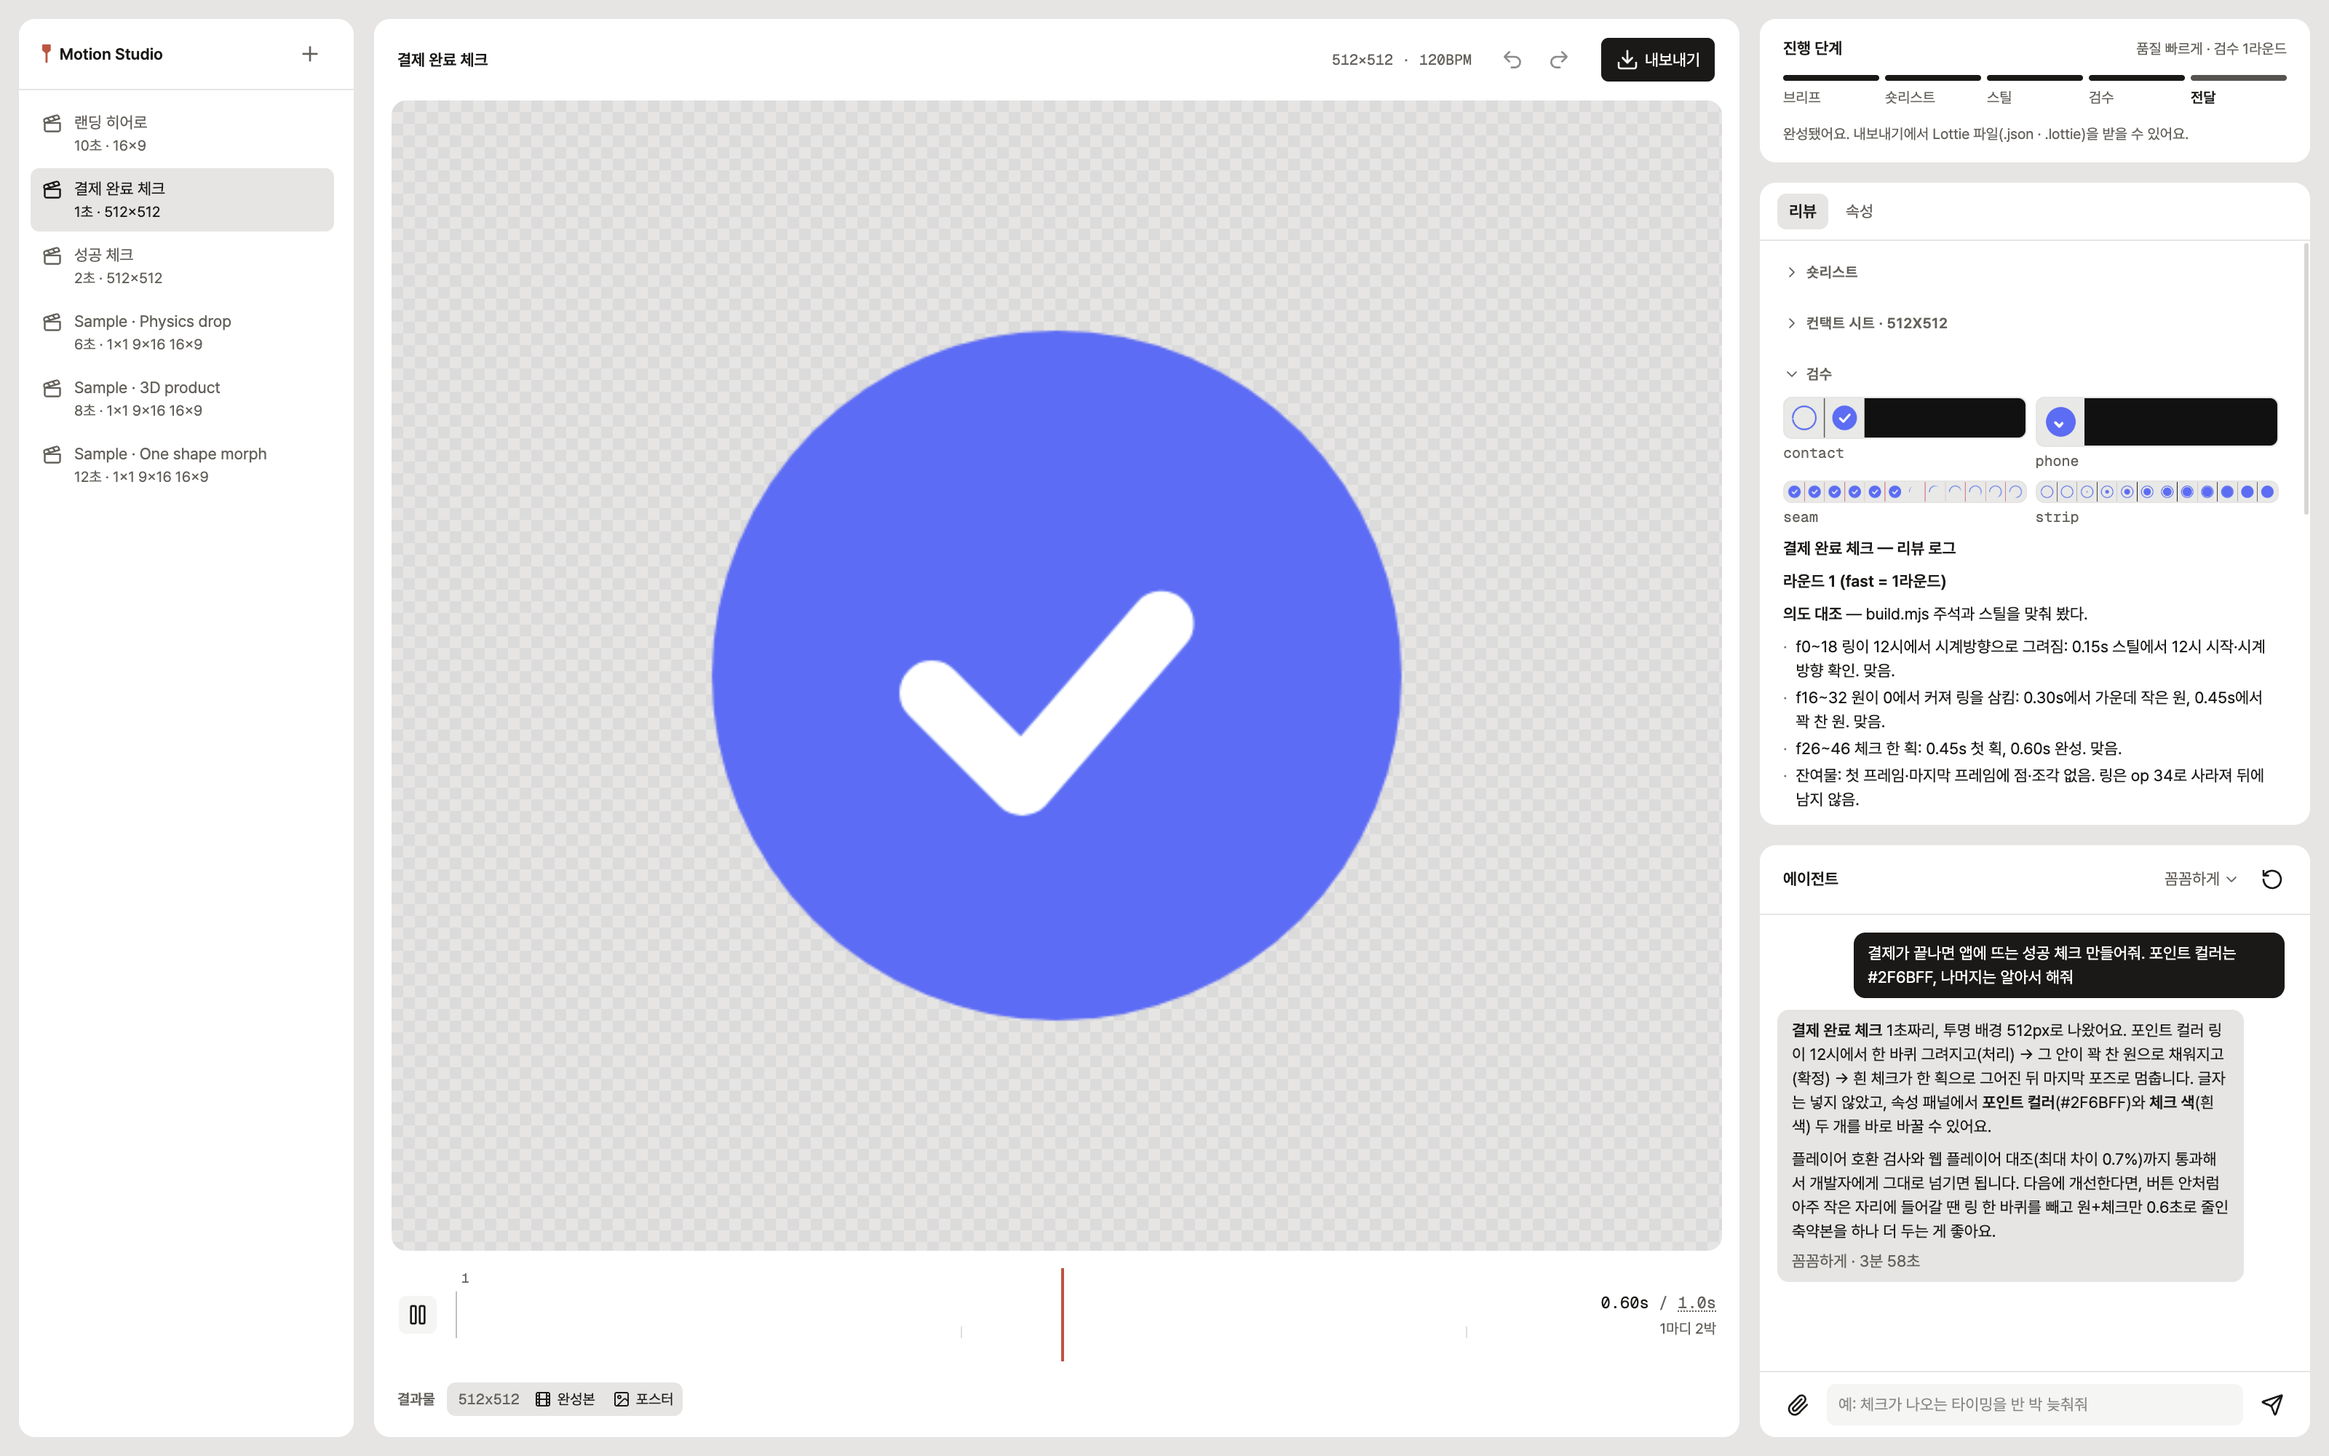
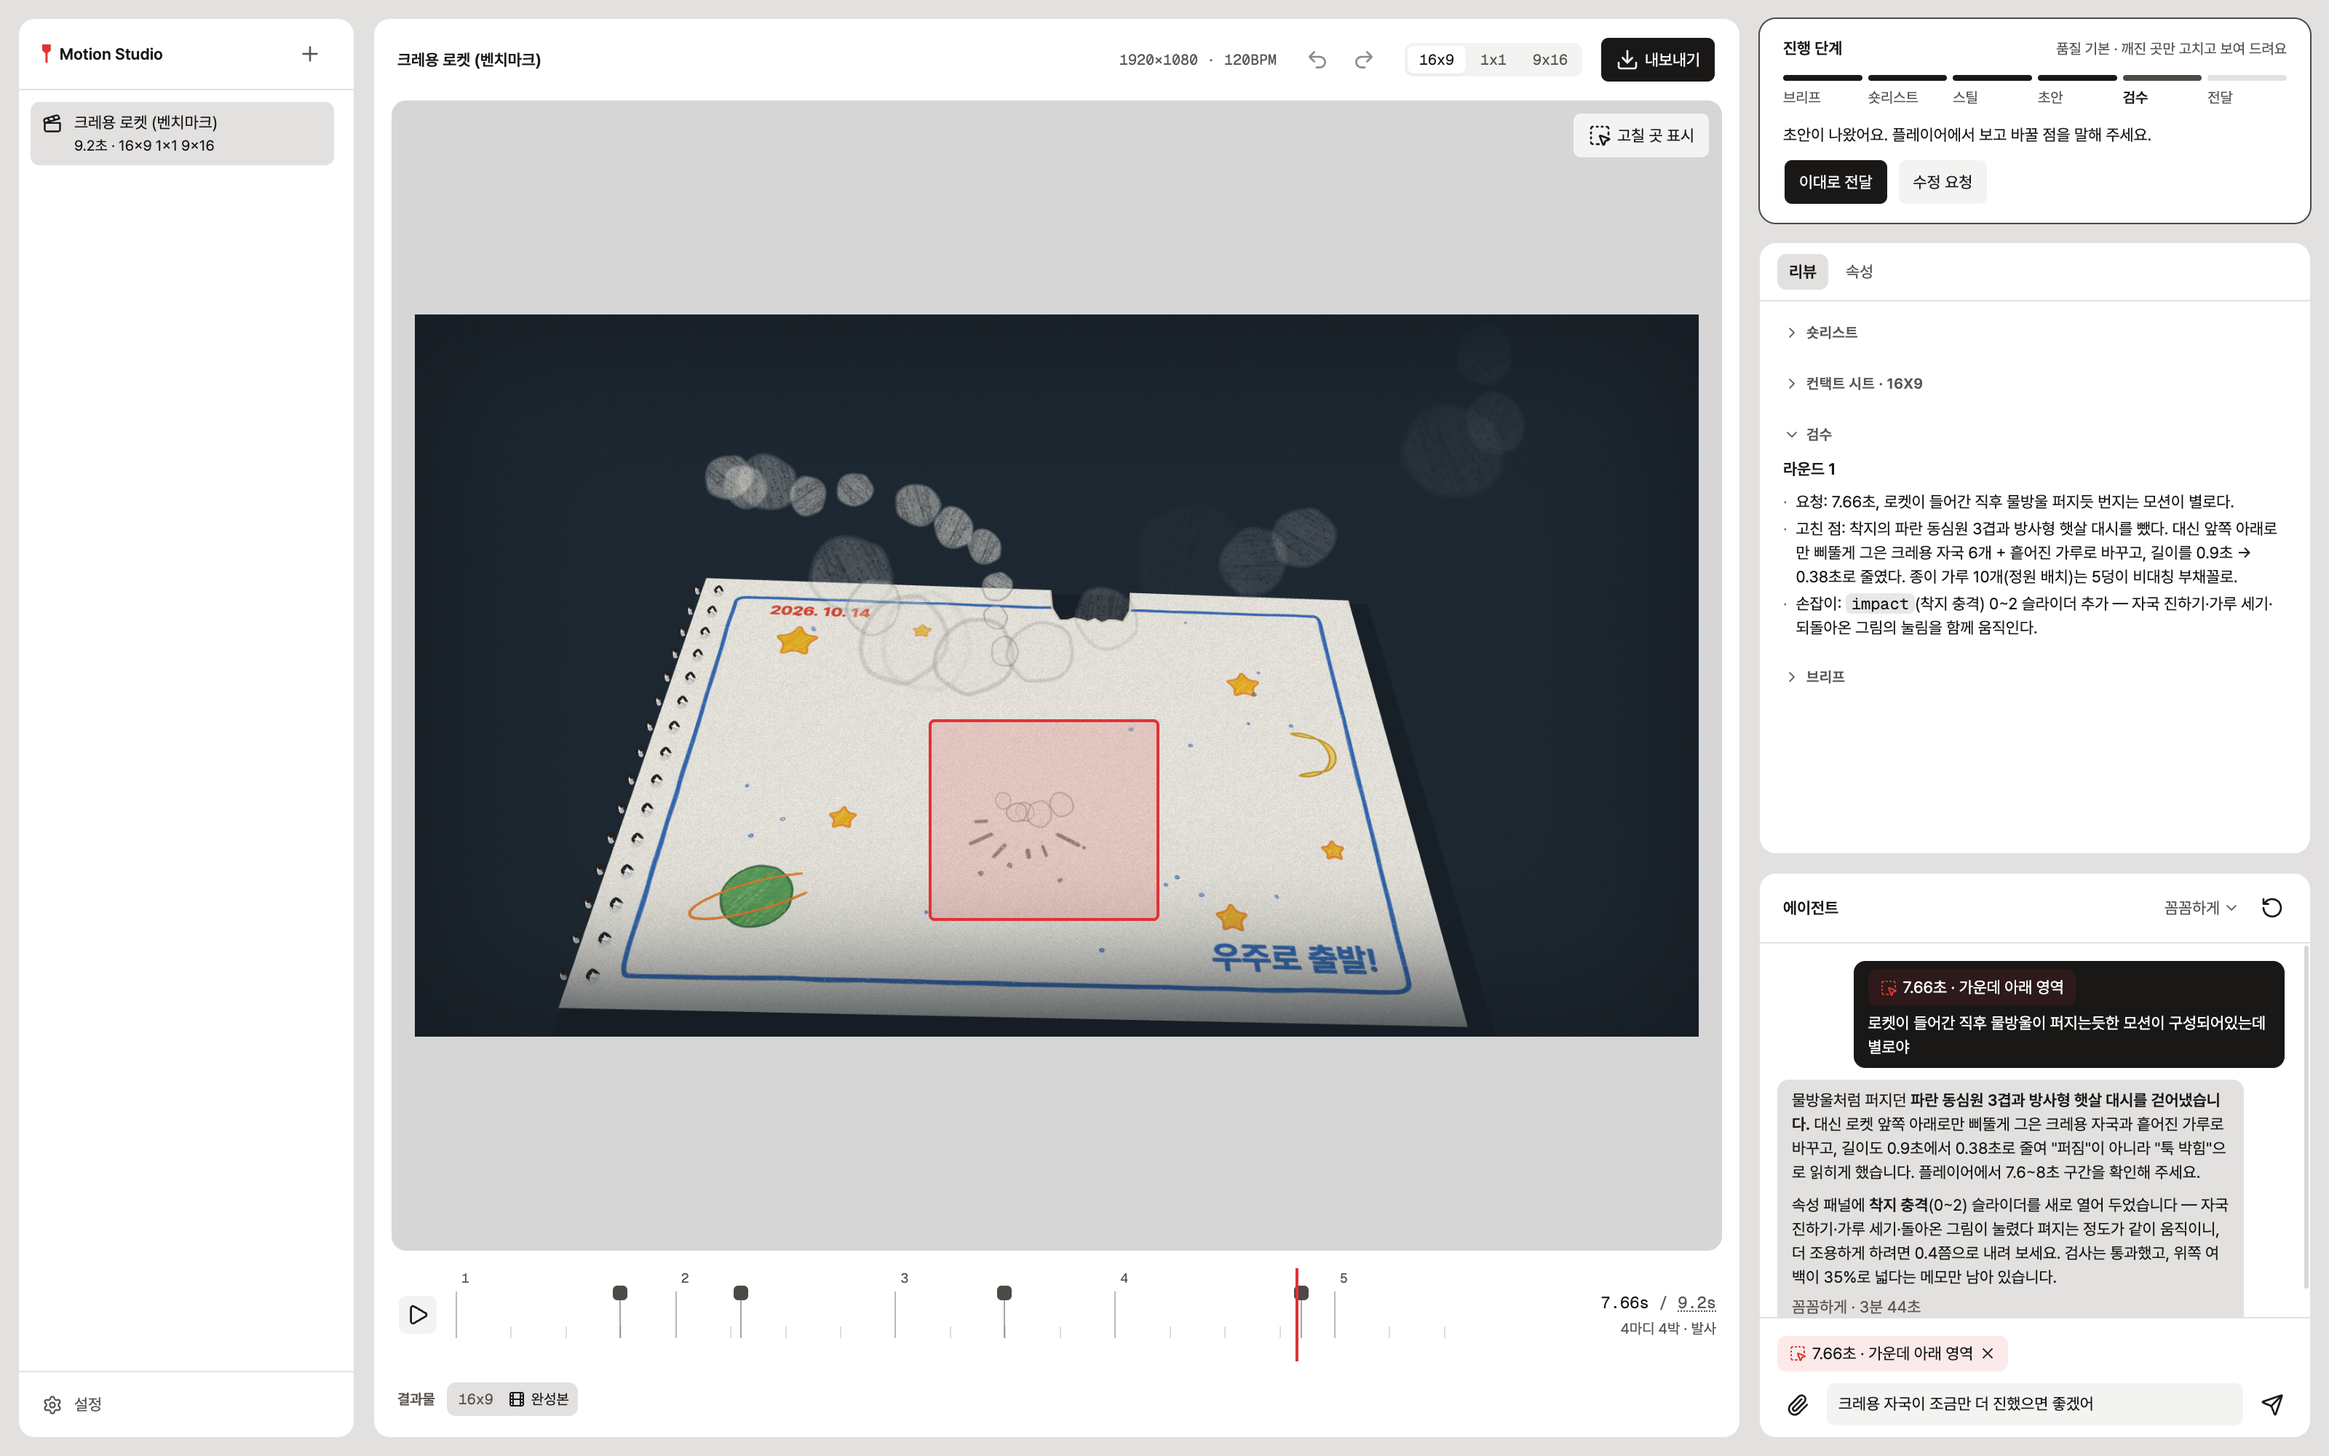
소개 페이지·사용 가이드: 0.7.0에 맞춰
- 작동 방식 "스스로 점검" → "초안 보고 다듬기": 초안을 바로 보여 주고, 이대로 전달하거나
  고칠 곳을 표시해 말하면 그 부분만 고쳐 다시 보여 준다.
- 직접 고치기에 "움직임의 느낌"(슬라이더)과 "고칠 곳 표시"를 더했다.
- 사용 가이드: 품질 단계 설명(혼자 다듬는 양과 점수 표시), 만들어지는 동안의 단계와
  내가 할 일 세 가지, "고칠 곳 표시하기" 순서, 느낌 슬라이더, 응답이 멈췄을 때 다시 보내기.
  0.6.1부터 없는 "예시 작업"은 "처음엔 목록이 비어 있다"로.
- 스크린샷 새로 찍음(1600×1000 @2x, 라이트): 크레용 로켓 하나만 있는 작업 폴더로 앱을 띄워
  초안 카드·고칠 곳 표시 박스·표시 칩·실제 수정 대화, 그리고 착지 충격 슬라이더가 보이게.
  앱 화면은 256색으로 줄였다(2.4MB → 1.1MB, 눈으로 차이 없음).

diff --git a/site/guide.html b/site/guide.html
@@ -143,7 +143,7 @@ p.small { font-size: 14.5px; color: var(--ink-3); }
           <li>처음 열 때 "확인되지 않은 개발자"라는 안내가 나올 수 있어요. <b>시스템 설정 → 개인정보 보호 및 보안</b>으로 가서 <b>그래도 열기</b>를 한 번만 눌러 주세요.</li>
           <li>처음 실행하면 앱이 필요한 준비를 알아서 하고, Claude 계정으로 로그인하도록 안내해요. 따로 설치하거나 설정할 건 없어요.</li>
         </ol>
-        <p>앱에는 예시 작업 몇 개가 들어 있어요. 하나 열어서 재생해 보고, 오른쪽에서 색을 바꿔 보면 어떻게 쓰는지 금방 감이 와요.</p>
+        <p>처음엔 필름 목록이 비어 있어요. 왼쪽 위 <b>+</b>로 첫 필름을 만들어 보세요.</p>
       </section>
 
       <section id="new">
@@ -161,11 +161,11 @@ p.small { font-size: 14.5px; color: var(--ink-3); }
           </div>
         </div>
         <h3>얼마나 공들일지</h3>
-        <p>영상은 AI가 완성본을 직접 보고 고치는 과정을 몇 번 거칠지 고를 수 있어요.</p>
+        <p>영상은 AI가 초안을 보여 드리기 전에 혼자 얼마나 다듬을지 고를 수 있어요. 몇 번 더 고칠지는 초안을 보고 직접 정하면 돼요.</p>
         <ul>
-          <li><b>빠르게</b>: 한 번만 보고 고쳐요. 방향부터 빨리 보고 싶을 때 좋아요.</li>
-          <li><b>기본</b>: 세 번 보고 고쳐요. 대부분은 이걸로 충분해요.</li>
-          <li><b>런칭용</b>: 모든 항목이 충분히 좋아질 때까지 계속 고쳐요. 시간이 가장 오래 걸려요.</li>
+          <li><b>빠르게</b>: 가장 빨리 초안을 보여 드려요. 방향부터 보고 싶을 때 좋아요.</li>
+          <li><b>기본</b>: 화면이 깨지는 곳만 고치고 보여 드려요. 대부분은 이걸로 충분해요.</li>
+          <li><b>런칭용</b>: 보여 드릴 때마다 항목별 점수를 함께 알려 드려요.</li>
         </ul>
         <p>여기서 고른 비율과 길이는 AI가 마음대로 바꾸지 않아요. 다르게 하는 게 낫겠다 싶으면 먼저 물어봐요.</p>
       </section>
@@ -219,13 +219,13 @@ p.small { font-size: 14.5px; color: var(--ink-3); }
       <section id="process">
         <div class="beat">00:12</div>
         <h2>만들어지는 동안</h2>
-        <p>AI가 지금 무엇을 하고 있는지 앱 오른쪽 위에 단계로 보여요. 내가 해야 할 건 <b>질문에 답하기</b>와 <b>장면 계획 승인하기</b>, 두 가지뿐이에요.</p>
+        <p>AI가 지금 무엇을 하고 있는지 앱 오른쪽 위에 단계로 보여요. 내가 해야 할 건 <b>질문에 답하기</b>, <b>장면 계획 승인하기</b>, <b>초안 보고 전달할지 고칠지 정하기</b>, 세 가지예요.</p>
         <ol class="flowlist">
           <li><span class="tag">브리프</span><b>무엇을 만들지 정리해요.</b> 빠진 내용이 있으면 질문이 와요. 답해 주세요.</li>
           <li><span class="tag">숏리스트</span><b>장면 계획을 보여 드려요.</b> 몇 초에 무엇이 나오고 어떻게 움직이는지 적은 표예요. 괜찮으면 <b>승인</b>을, 바꾸고 싶으면 채팅으로 말해 주세요. 승인하기 전에는 만들기 시작하지 않아요.</li>
-          <li><span class="tag">스틸 · 초안</span><b>장면마다 한 장씩 뽑아 보고, 빠르게 한 번 돌려 봐요.</b> 배치와 글자, 타이밍을 다듬는 단계예요.</li>
-          <li><span class="tag">검수</span><b>완성본을 직접 보며 고쳐요.</b> 글자가 잘 읽히는지, 멈춰 보이는 구간은 없는지 점수를 매기고 부족한 곳을 손봐요.</li>
-          <li><span class="tag">전달</span><b>완성이에요.</b> 재생해 보고, 더 고칠 게 있으면 말하거나 파일로 받으면 돼요.</li>
+          <li><span class="tag">초안</span><b>초안을 만들어 바로 보여 드려요.</b> 화면이 깨지는 곳만 고치고, "초안이 나왔어요" 카드를 띄워요. 마음에 들면 <b>이대로 전달</b>, 아니면 <b>수정 요청</b>을 눌러요.</li>
+          <li><span class="tag">검수</span><b>말씀하신 곳을 고쳐 다시 보여 드려요.</b> 의견을 한 번 주실 때마다 한 라운드예요. 마음에 들 때까지 주고받으면 돼요.</li>
+          <li><span class="tag">전달</span><b>완성이에요.</b> 모든 화면 비율로 완성본을 뽑아 드려요. 더 고칠 게 있으면 말하거나 파일로 받으면 돼요.</li>
         </ol>
         <p>영상을 뽑는 동안에는 플레이어 아래에 진행률이 보이고, 원하면 거기서 멈출 수 있어요.</p>
         <h3>앱·웹에 넣을 것은 더 빨라요</h3>
@@ -234,6 +234,14 @@ p.small { font-size: 14.5px; color: var(--ink-3); }
           <li>고칠 게 없으면 검수를 일찍 끝내요.</li>
           <li>개발자에게 넘기기 전에, 실제 웹과 앱에서도 똑같이 보이는지 비교해 보고 넘겨요.</li>
         </ul>
+        <h3>고칠 곳 표시하기</h3>
+        <p>말로 설명하기 어려운 건 화면에 직접 표시해 주세요.</p>
+        <ol>
+          <li>플레이어에서 고칠 장면에 멈춰요.</li>
+          <li>오른쪽 위 <b>고칠 곳 표시</b>를 누르고, 고칠 부분을 드래그로 감싸요. 그냥 누르면 점으로 표시돼요.</li>
+          <li>메시지 입력창 위에 표시가 붙어요. 무엇이 별로인지 한 줄만 적어 보내면, AI가 그 순간 그 자리를 보고 고쳐요.</li>
+        </ol>
+        <p>붙은 표시를 누르면 그 장면으로 돌아가고, X를 누르면 화면의 박스와 함께 지워져요. 여러 곳을 한 번에 표시해도 돼요.</p>
         <h3>다 만든 뒤에도 고칠 수 있어요</h3>
         <p>"로고가 조금 더 늦게 나오게", "마지막 문구를 더 크게"처럼 바꾸고 싶은 것만 말하면 그 부분을 고치고 다시 확인해요.</p>
       </section>
@@ -241,9 +249,10 @@ p.small { font-size: 14.5px; color: var(--ink-3); }
       <section id="edit">
         <div class="beat">00:16</div>
         <h2>직접 손보기</h2>
-        <p>문구 하나, 색 하나 바꾸는 건 AI를 기다릴 필요 없어요.</p>
+        <p>문구 하나, 색 하나, 움직임의 느낌까지 AI를 기다릴 필요 없어요.</p>
         <ul>
           <li><b>속성</b>: 문구, 색, 크기 같은 값을 바로 바꿔요. 전체 길이를 바꾸면 장면들이 같은 비율로 늘어나거나 줄어들어요.</li>
+          <li><b>움직임의 느낌</b>: 튀는 정도, 흔들림, 속도처럼 말로 하기 어려운 느낌은 AI가 속성에 슬라이더로 열어 둬요. 끄는 대로 미리보기가 바로 바뀌어요.</li>
           <li><b>타임라인</b>: 장면 표시를 끌어서 옮기면 움직임이 함께 따라와요. 박자에 딱 붙고, <kbd>⌥</kbd>를 누른 채 끌면 더 세밀하게 옮길 수 있어요.</li>
           <li>내가 직접 바꾼 값은 AI가 몰래 되돌리지 않아요. 꼭 바꿔야 할 땐 먼저 이유를 말해요.</li>
         </ul>
@@ -285,6 +294,8 @@ p.small { font-size: 14.5px; color: var(--ink-3); }
           <dd>채팅에 "필름이 안 열려"라고 보내면 AI가 고쳐요.</dd>
           <dt>"로그인이 풀렸어요"라고 나와요</dt>
           <dd><b>다시 로그인</b>을 누르고, 로그인이 끝나면 <b>다시 보내기</b>를 눌러요. 보냈던 메시지가 그대로 다시 가요.</dd>
+          <dt>"Claude 서버가 응답하지 않아 이번 요청이 멈췄어요"라고 나와요</dt>
+          <dd>서버가 응답하지 않으면 AI가 잠시 뒤 스스로 다시 시도해요. 그래도 안 되면 이 메시지가 나와요. <b>다시 보내기</b>를 누르면 이어서 해요. 그때까지 한 작업은 그대로 남아 있어요.</dd>
           <dt>영상 뽑는 데 오래 걸려요</dt>
           <dd>12초짜리 정사각 영상이 30초 안팎 걸려요. 맥 사양에 따라 더 걸릴 수 있고, 플레이어 아래 진행률 옆에서 멈출 수 있어요.</dd>
           <dt>Figma 링크를 못 읽어요</dt>

diff --git a/site/index.html b/site/index.html
@@ -165,7 +165,7 @@ p.lead { font-size: clamp(18px, 1.6vw, 21px); color: var(--ink-2); max-width: 34
 <main>
   <section class="hero" data-tc="0">
     <div class="wrap">
-      <div class="beat">00:00 · macOS 앱 · <span id="ver">v0.6.0</span></div>
+      <div class="beat">00:00 · macOS 앱 · <span id="ver">v0.7.0</span></div>
       <div class="hero-grid">
         <div>
           <h1><span class="reveal">말하면,</span><span class="reveal">움직입니다.</span></h1>
@@ -196,10 +196,10 @@ p.lead { font-size: clamp(18px, 1.6vw, 21px); color: var(--ink-2); max-width: 34
       <div class="steps">
         <div class="step in"><span class="tc">00:04</span><h3>말하기</h3><p>"버튼이 로더를 거쳐 체크로 바뀌는 4초 루프"처럼 적으면 돼요. 로고, 스크린샷, Figma 링크도 함께 넣을 수 있어요.</p></div>
         <div class="step in"><span class="tc">00:05</span><h3>장면 확인</h3><p>언제 무엇이 움직일지 장면 표로 먼저 보여 드려요. 확인하고 승인하면 그때 만들기 시작해요.</p></div>
-        <div class="step in"><span class="tc">00:06</span><h3>스스로 점검</h3><p>AI가 만든 영상을 직접 돌려 보고, 글자가 잘 읽히는지, 비어 보이는 구간은 없는지 점검하며 고쳐요.</p></div>
+        <div class="step in"><span class="tc">00:06</span><h3>초안 보고 다듬기</h3><p>초안이 나오면 바로 보여 드려요. 마음에 들면 이대로 전달, 아니면 고칠 곳을 표시해서 말해 주세요. 그 부분만 고쳐 다시 보여 드려요.</p></div>
         <div class="step in"><span class="tc">00:07</span><h3>받기</h3><p>MP4·ProRes·GIF 영상이나 개발자에게 넘길 Lottie 파일로 받아요. 다운로드 폴더에 모아 드려요.</p></div>
       </div>
-      <figure class="shot in" style="margin-left:0;margin-right:0"><img src="assets/shot-app.png?v=3" alt="Motion Studio 앱 화면: 왼쪽 필름 목록, 가운데 플레이어, 오른쪽 진행 단계와 AI 채팅" loading="lazy" width="1600" height="1000"></figure>
+      <figure class="shot in" style="margin-left:0;margin-right:0"><img src="assets/shot-app.png?v=4" alt="Motion Studio 앱 화면: 가운데 플레이어에 고칠 곳으로 표시한 영역, 오른쪽 위 초안 확인 카드(이대로 전달 · 수정 요청), 오른쪽 아래 표시가 첨부된 AI 채팅" loading="lazy" width="1600" height="1000"></figure>
     </div>
   </section>
 
@@ -262,9 +262,11 @@ p.lead { font-size: clamp(18px, 1.6vw, 21px); color: var(--ink-2); max-width: 34
       <div class="beat">00:16 · 직접 고치기</div>
       <h2 class="in">작은 수정은 손으로, 나머지는 말로.</h2>
       <div class="edit">
-        <figure class="shot in" style="margin:0;max-width:440px"><img src="assets/shot-props.png?v=3" alt="속성 패널: 포인트 컬러, 배경, 버튼 문구 등을 바로 바꿀 수 있는 화면" loading="lazy" width="400" height="430" style="width:100%"></figure>
+        <figure class="shot in" style="margin:0;max-width:440px"><img src="assets/shot-props.png?v=4" alt="속성 패널: 문구를 바로 바꾸는 칸과, 착지 충격처럼 움직임의 느낌을 조절하는 슬라이더" loading="lazy" width="380" height="421" style="width:100%"></figure>
         <dl class="in">
           <dt>문구 · 색 · 숫자</dt><dd>AI가 열어 둔 값은 속성 패널에서 바로 바꿀 수 있어요.</dd>
+          <dt>움직임의 느낌</dt><dd>튀는 정도, 흔들림, 속도처럼 말로 설명하기 어려운 느낌은 슬라이더로 열어 둬요. 끄는 대로 바로 바뀌어요.</dd>
+          <dt>고칠 곳 표시</dt><dd>멈춘 장면에서 고칠 부분을 드래그로 감싸면 메시지에 첨부돼요. 설명을 길게 쓰지 않아도 AI가 그 자리를 바로 봐요.</dd>
           <dt>장면 타이밍</dt><dd>타임라인에서 장면 표시를 끌어 옮기면 움직임이 함께 따라와요. 박자에 맞춰 딱 붙어요.</dd>
           <dt>되돌리기</dt><dd><kbd>⌘Z</kbd> · <kbd>⇧⌘Z</kbd>로 언제든 되돌릴 수 있어요. 내가 직접 바꾼 값은 AI가 마음대로 되돌리지 않아요.</dd>
         </dl>
